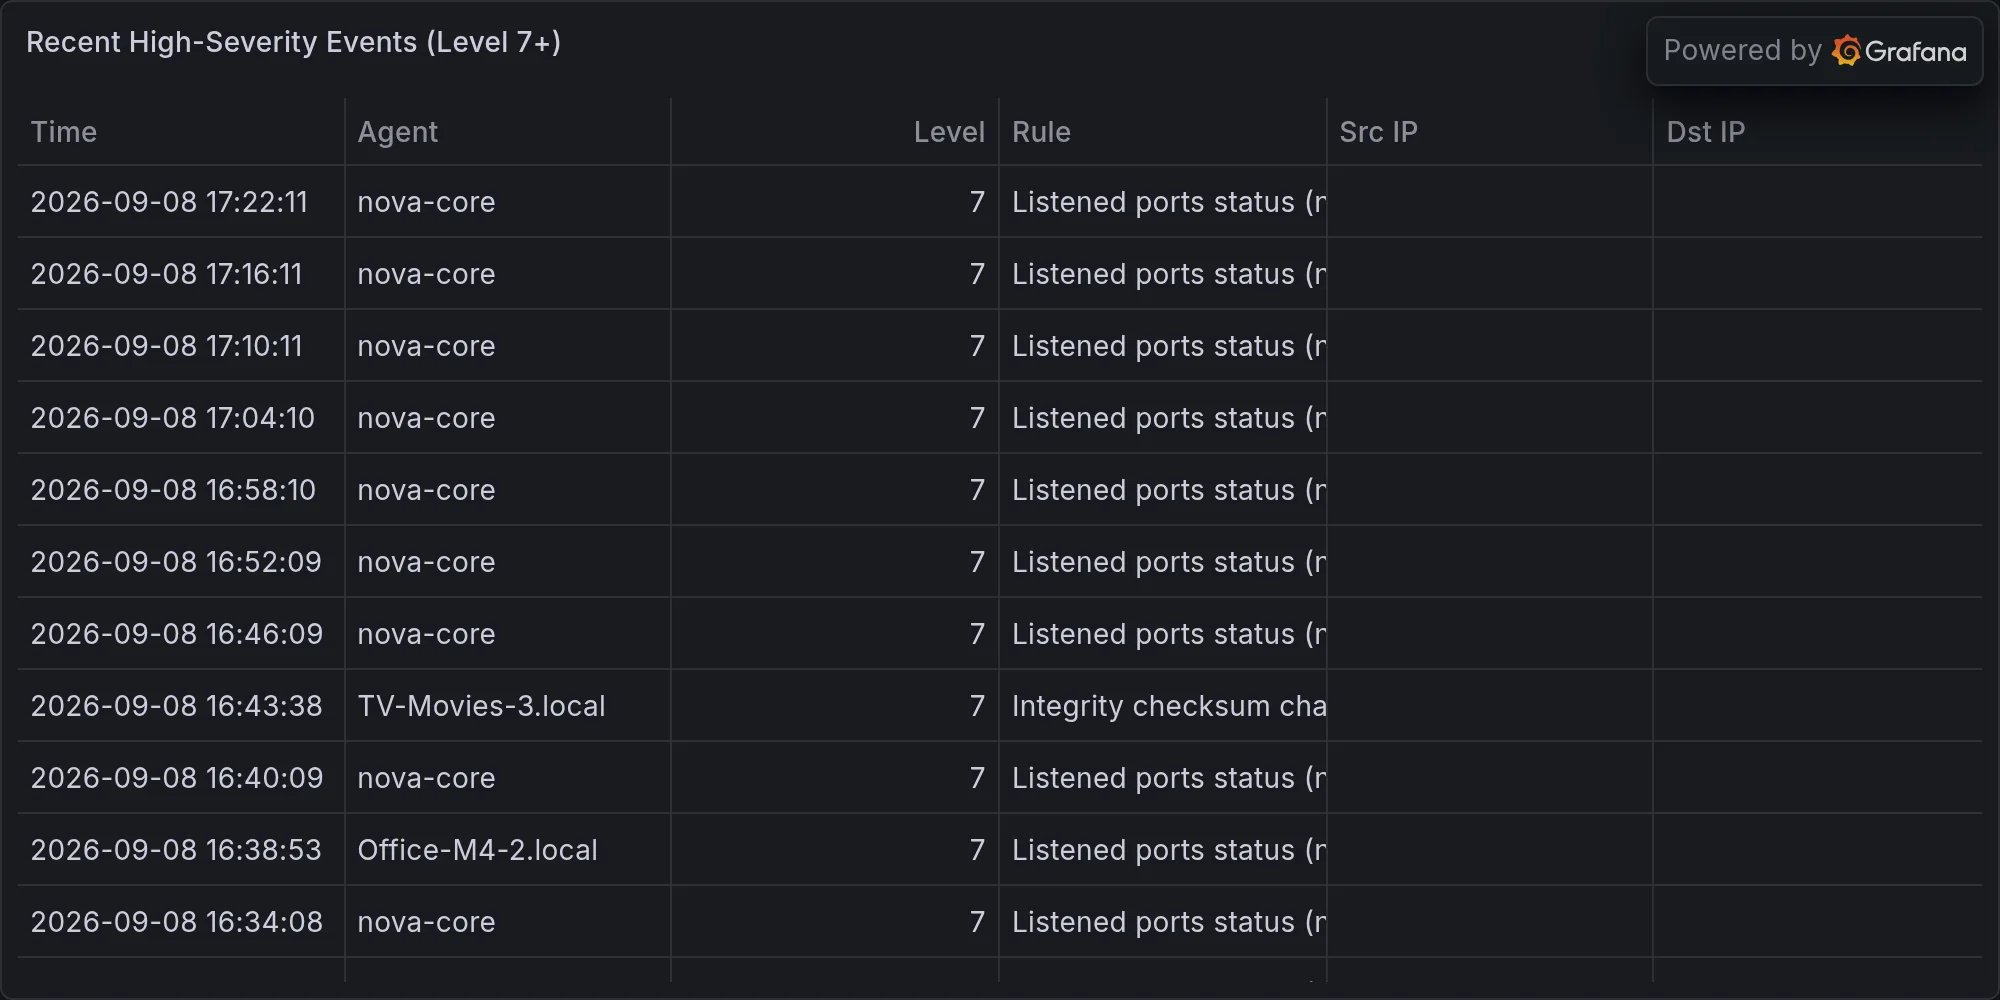
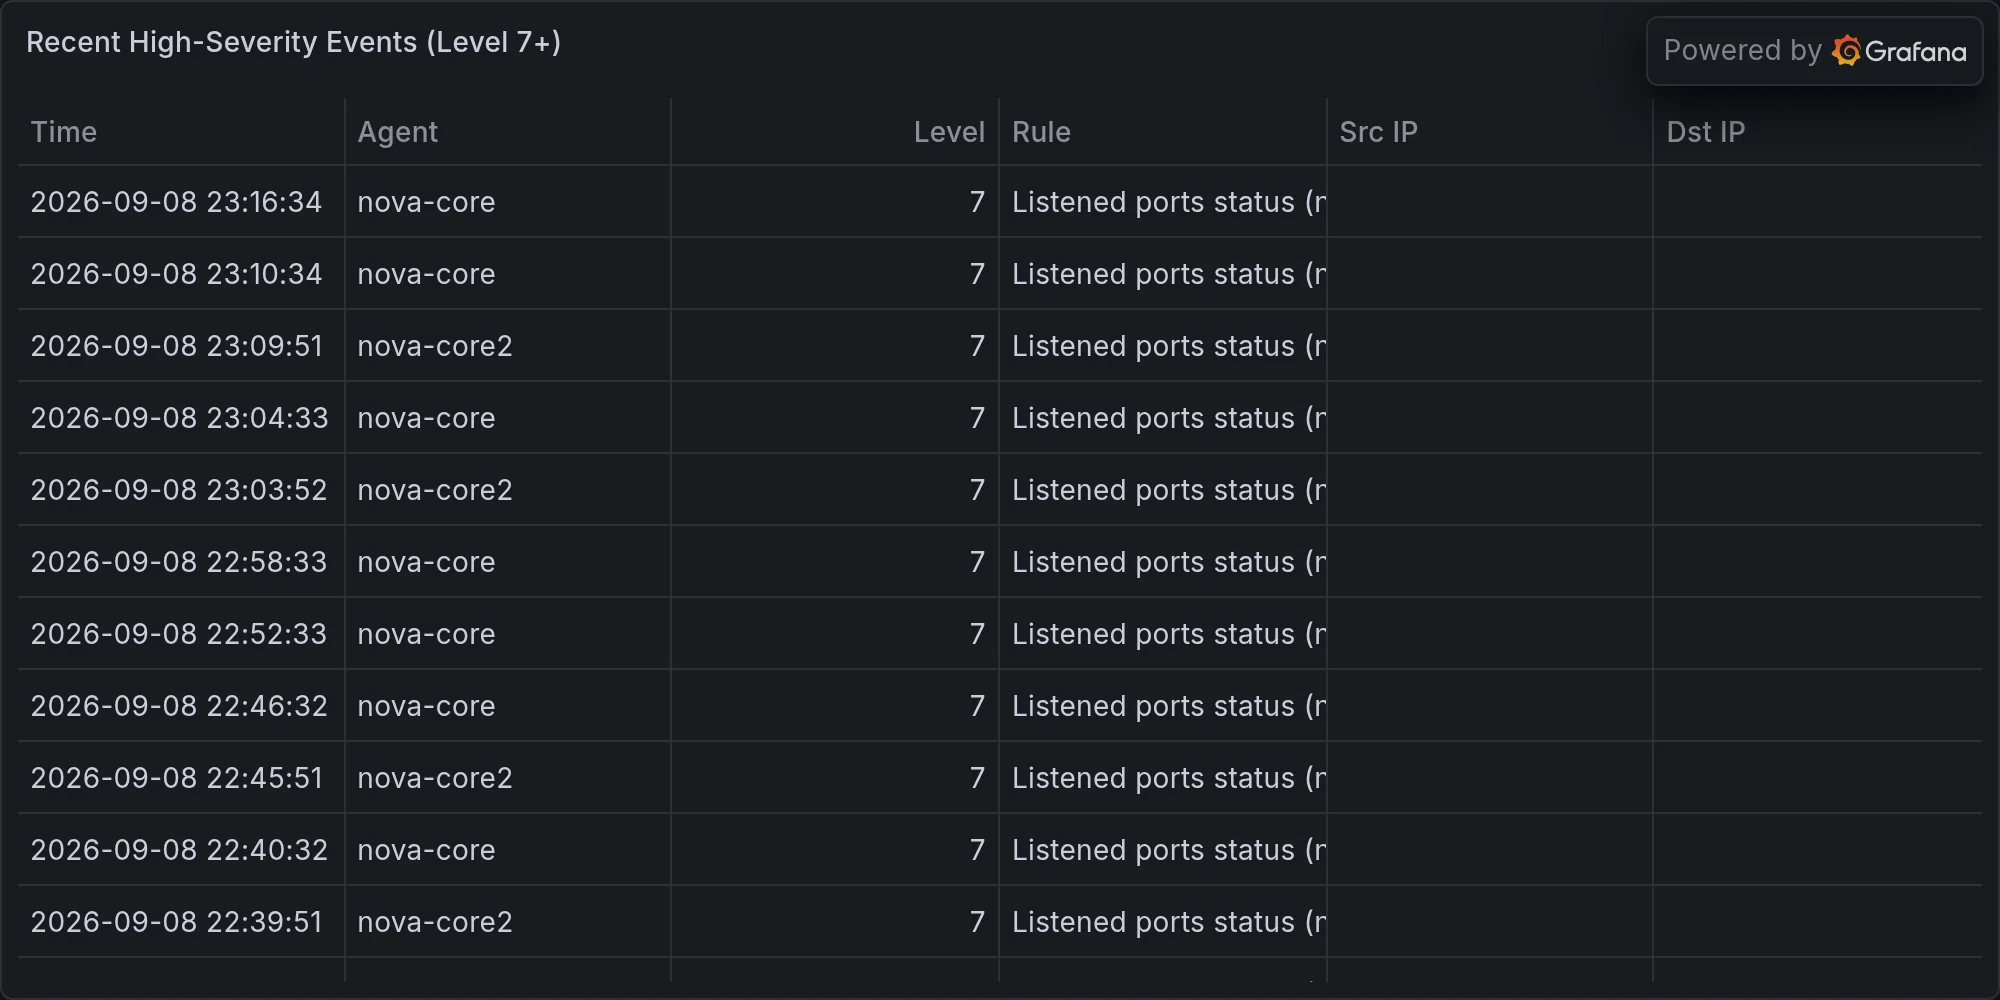
security: 2026-09-08 — BREAKING: Cisco Patches Multiple Critical Vulnerab

diff --git a/content/operations/2026-09-08-breaking-cisco-patches-multiple-critical-vulnerabilities-acr.md b/content/operations/2026-09-08-breaking-cisco-patches-multiple-critical-vulnerabilities-acr.md
@@ -1,0 +1,49 @@
+---
+title: "🛡 BREAKING: Cisco Patches Multiple Critical Vulnerabilities Across Product Line — Some Actively Exploited"
+date: 2026-09-08T23:24:14-07:00
+draft: false
+categories: ["operations"]
+tags: ["breaking-alert", "cso-online-cisco-bundles-fixes-for-multi", "security"]
+description: "BREAKING: CSO Online: Cisco bundles fixes for multiple vulnerabilities, some critical, into one patch"
+cover:
+  image: "/images/operations/2026-09-08-breaking-cisco-patches-multiple-critical-vulnerabilities-acr.webp"
+  alt: "BREAKING: Cisco Patches Multiple Critical Vulnerabilities Across Product Line — Some Actively Exploited"
+  relative: false
+---
+
+*Published Tuesday, September 08, 2026 at 11:24 PM PT*
+
+![BREAKING: Cisco Patches Multiple Critical Vulnerabilities Across Product Line — Some Actively Exploited](/images/operations/2026-09-08-breaking-cisco-patches-multiple-critical-vulnerabilities-acr.webp)
+
+**BLUF:** Cisco released patches for multiple critical vulnerabilities affecting IOS XR, Unified CM, SD-WAN Manager, Crosswork, Secure Workload, IOS XE, FMC, and ClamAV. At least two products (Unified CM, SD-WAN Manager) are under active exploitation in the wild. Five vulnerabilities have maximum CVSS 10.0 ratings. Organizations running any Cisco infrastructure, communications, or security products should prioritize patching immediately.
+
+**DETAILS:**
+- Cisco bundled fixes for more than a half-dozen internally-discovered vulnerabilities, including critical-severity flaws affecting network operating systems (IOS XR, IOS XE), unified communications (Unified CM), SD-WAN management, network automation (Crosswork), microsegmentation (Secure Workload), firewall management (FMC), and the ClamAV antivirus engine
+- Confirmed active exploitation: Unified CM vulnerability **CVE-2026-20230** and SD-WAN Manager; proof-of-concept code is publicly available for Unified CM and ClamAV
+- Five Crosswork and Secure Workload vulnerabilities carry the maximum severity CVSS 10.0 score; additional critical flaws affect remote code execution, denial-of-service, and authentication bypass vectors
+- Cisco flagged these flaws during internal testing as part of regular software engineering review; patches are now available
+
+**IMPACT:**
+- **Network operators:** IOS XR and IOS XE patches required; any equipment running affected code is at risk of remote compromise
+- **Communications:** Unified CM deployments already experiencing active exploitation; organizations with public-facing Unified CM instances are highest priority
+- **SD-WAN:** Deployments using SD-WAN Manager are actively targeted; patch critical for organizations using Cisco SD-WAN
+- **Enterprise security:** Crosswork (network operations), Secure Workload (microsegmentation), and FMC (firewall management) vulnerabilities expose orchestration, policy enforcement, and perimeter controls
+- **Endpoint security:** ClamAV integration across endpoints is at risk
+
+**RECOMMENDED ACTIONS:**
+- **Immediate (24–48 hrs):** Prioritize patches for Unified CM and SD-WAN Manager products; verify if your infrastructure is directly exposed
+- **High Priority (72 hrs):** Patch IOS XR and IOS XE devices; Crosswork, Secure Workload, and FMC instances
+- **Monitor:** Threat intelligence feeds for exploitation activity; apply ClamAV updates across deployments
+- **Incident response:** Check firewall/proxy logs and netflow for suspicious traffic to Cisco management interfaces and unified communications systems
+
+**SOURCES:**
+- CSO Online: Cisco bundles fixes for multiple vulnerabilities, some critical, into one patch
+- SecurityWeek: Cisco Patches Critical Crosswork, Secure Workload, SD-WAN, IOS XE, FMC; Active exploitation of Unified CM and SD-WAN Manager
+- The Hacker News: Cisco Patches Nine Crosswork and Secure Workload Flaws (Five CVSS 10.0)
+- Help Net Security / SecurityWeek: Cisco ClamAV high-severity vulnerabilities with public PoC
+
+---
+
+**Recent high-severity events at publish time:**
+
+![Recent high-severity events](/images/operations/2026-09-08-breaking-alert-posture.webp)
